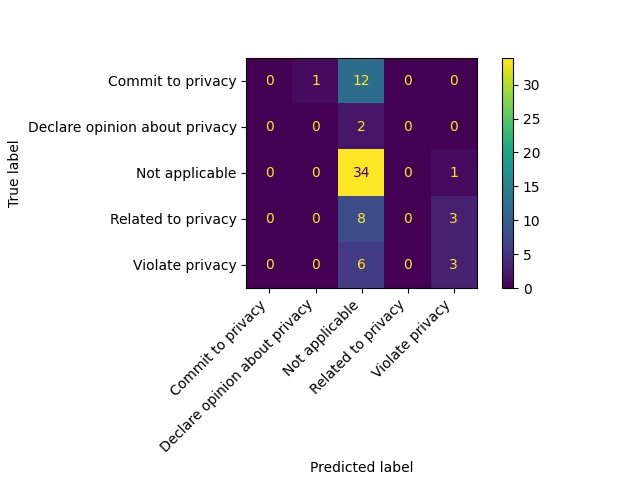
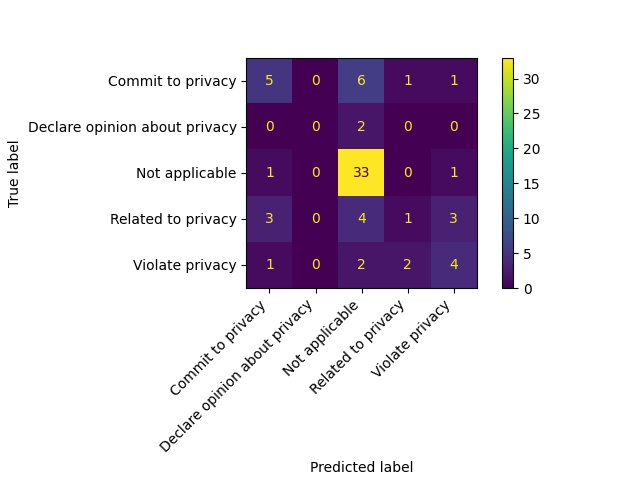
mixed dictionary considering all non zero features from weighted and non weighted word representation in unigram and bigram

diff --git a/AIclassifier.py b/AIclassifier.py
@@ -58,7 +58,7 @@ def format_sentVector_to_SparseMatrix(vectors_list, dictionary):
         for index, freq in counts.items():
             if len(counts.items()) > 0:
                 print(len(counts.items()), counts)
-                sparse_vector[index] = 1 #freq/len(sent_vector) # DIFFERENT CONFIGURATION POSSIBILITIES # 1
+                sparse_vector[index] = freq/len(sent_vector) # DIFFERENT CONFIGURATION POSSIBILITIES # 1
         if (i == 0): # TO DO: OPTIMIZE, NO NEED TO CHECK THIS EVERY TURN
             matrix_array = [sparse_vector]
         else:
